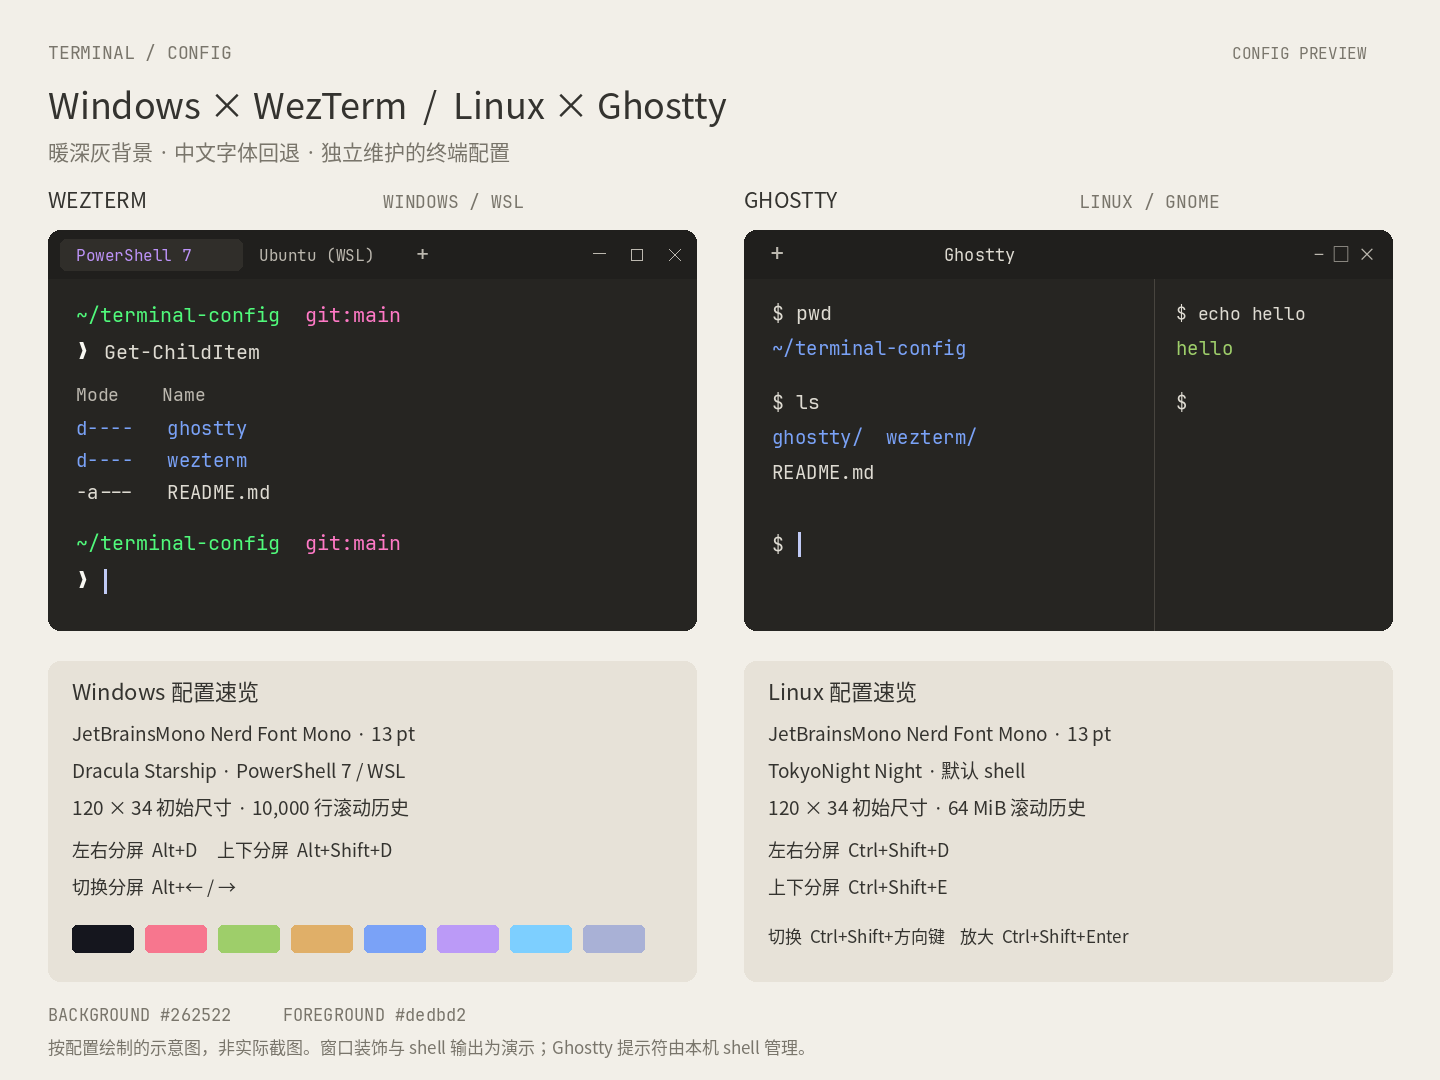
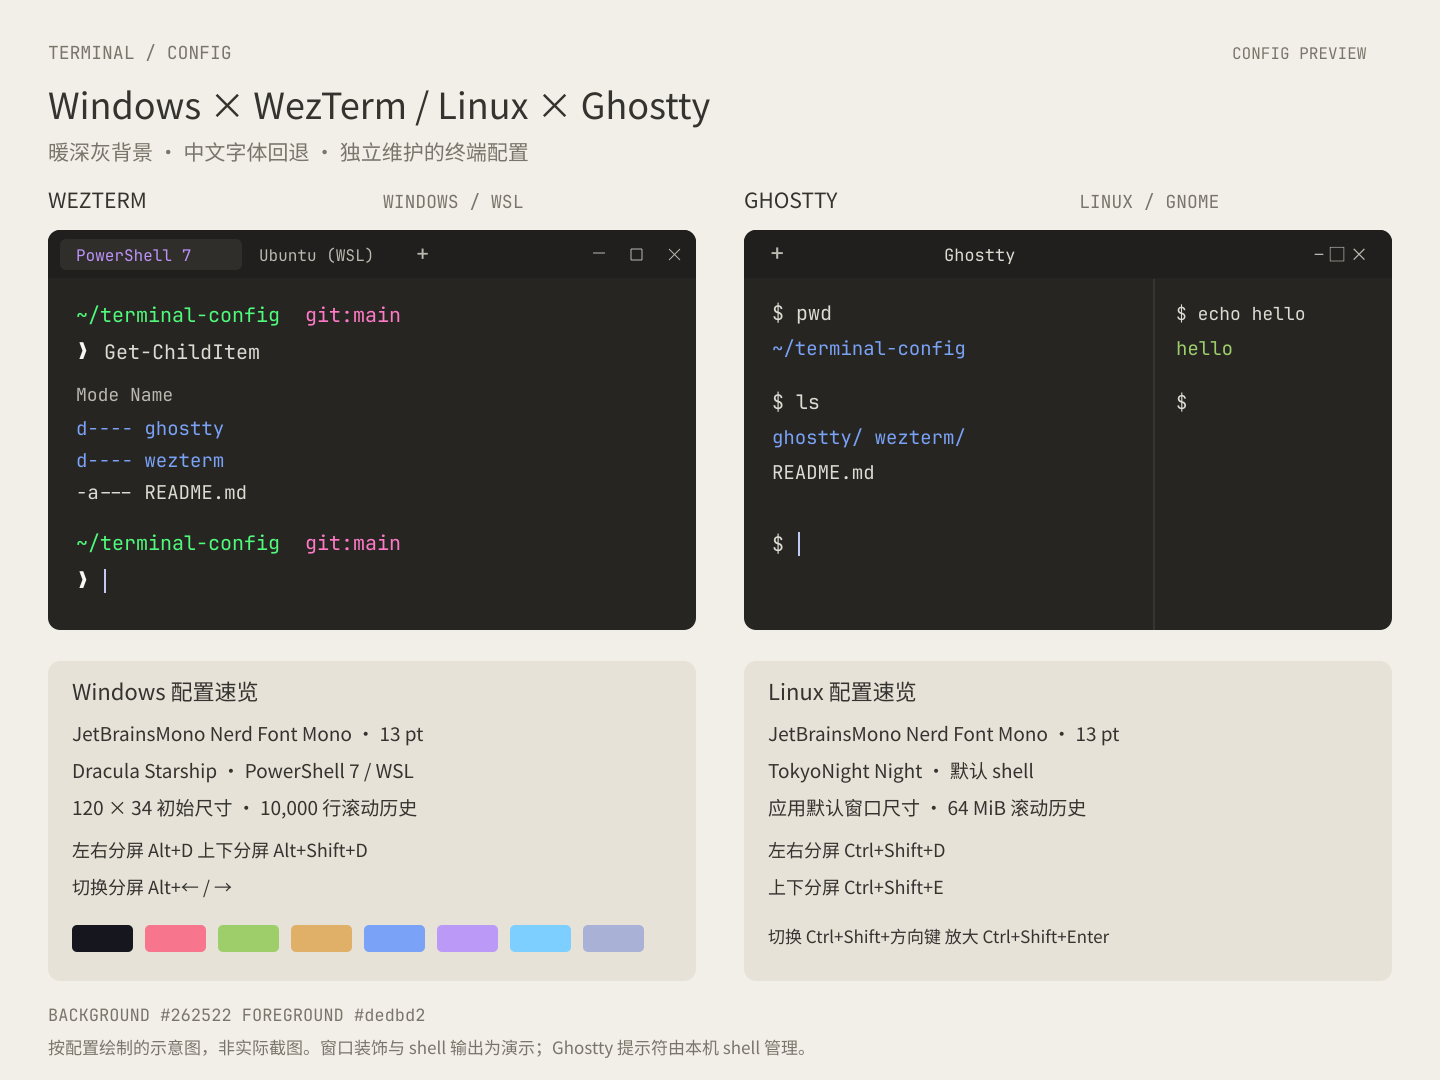
Restore default Ghostty window size

diff --git a/ghostty/README.md b/ghostty/README.md
@@ -7,7 +7,7 @@
 
 - `TokyoNight Night` 内置主题，覆盖为暖深灰背景 `#262522`、柔白文字 `#dedbd2`。
 - `JetBrainsMono Nerd Font Mono`，中文回退为 `Noto Sans Mono CJK SC`，字号 13。
-- 初始窗口 120 列 × 34 行，不透明背景、竖线光标、64 MiB 滚动历史。
+- 初始窗口使用 Ghostty 默认大小，不再固定列数和行数；不透明背景、竖线光标、64 MiB 滚动历史。
 - 自动识别默认 shell，启用 shell integration。
 - 复用 GTK 进程，最后一个窗口关闭后保留后台进程。
 
